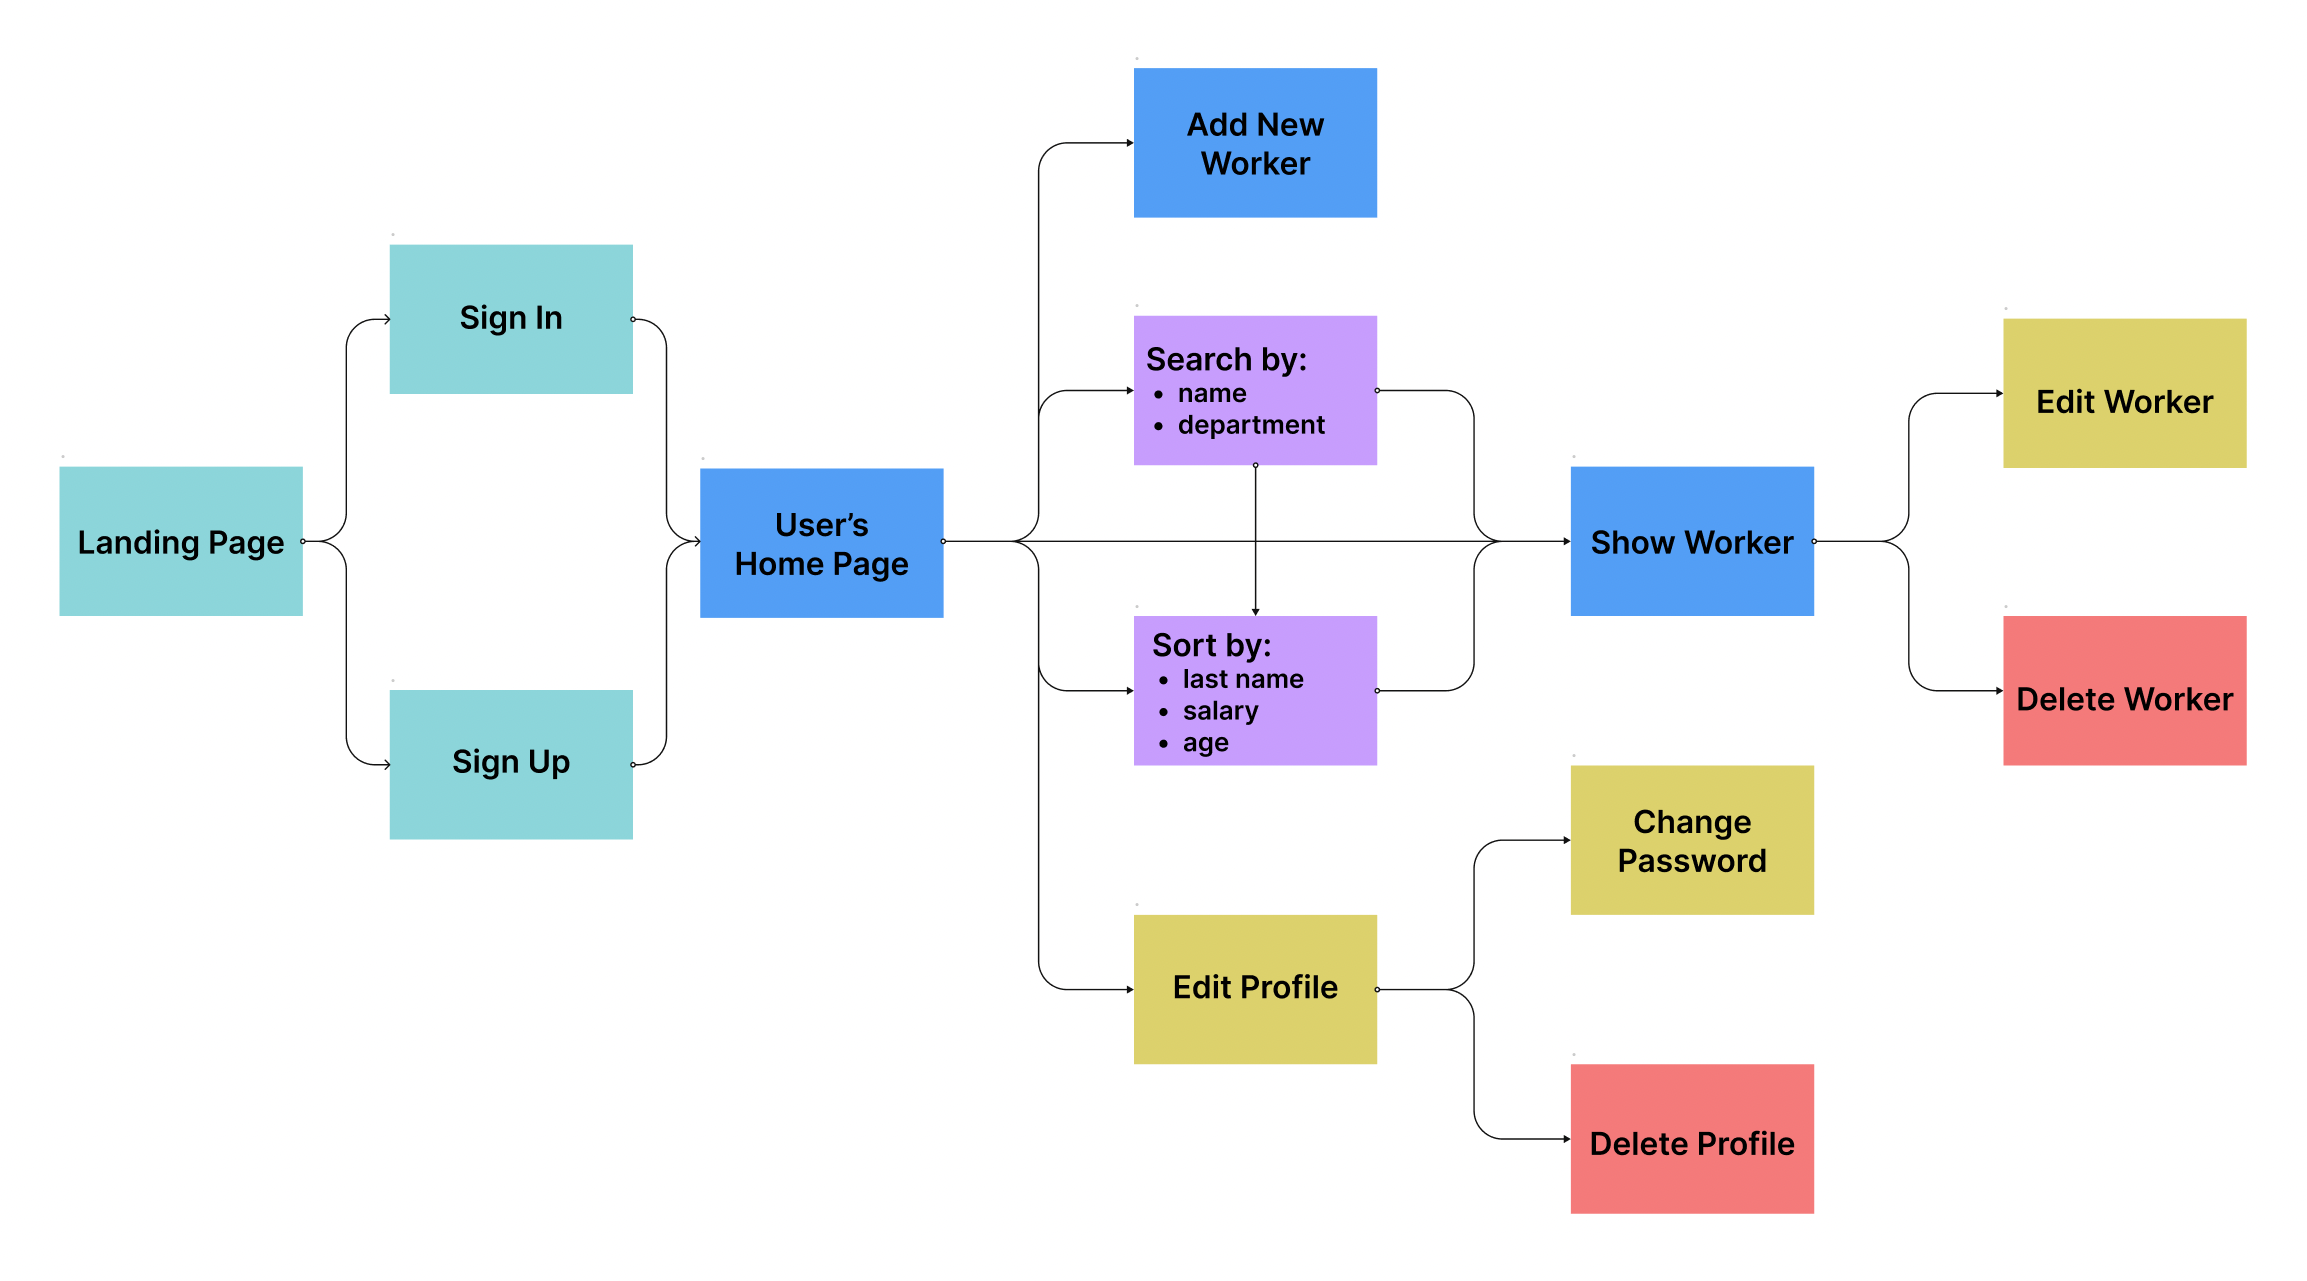
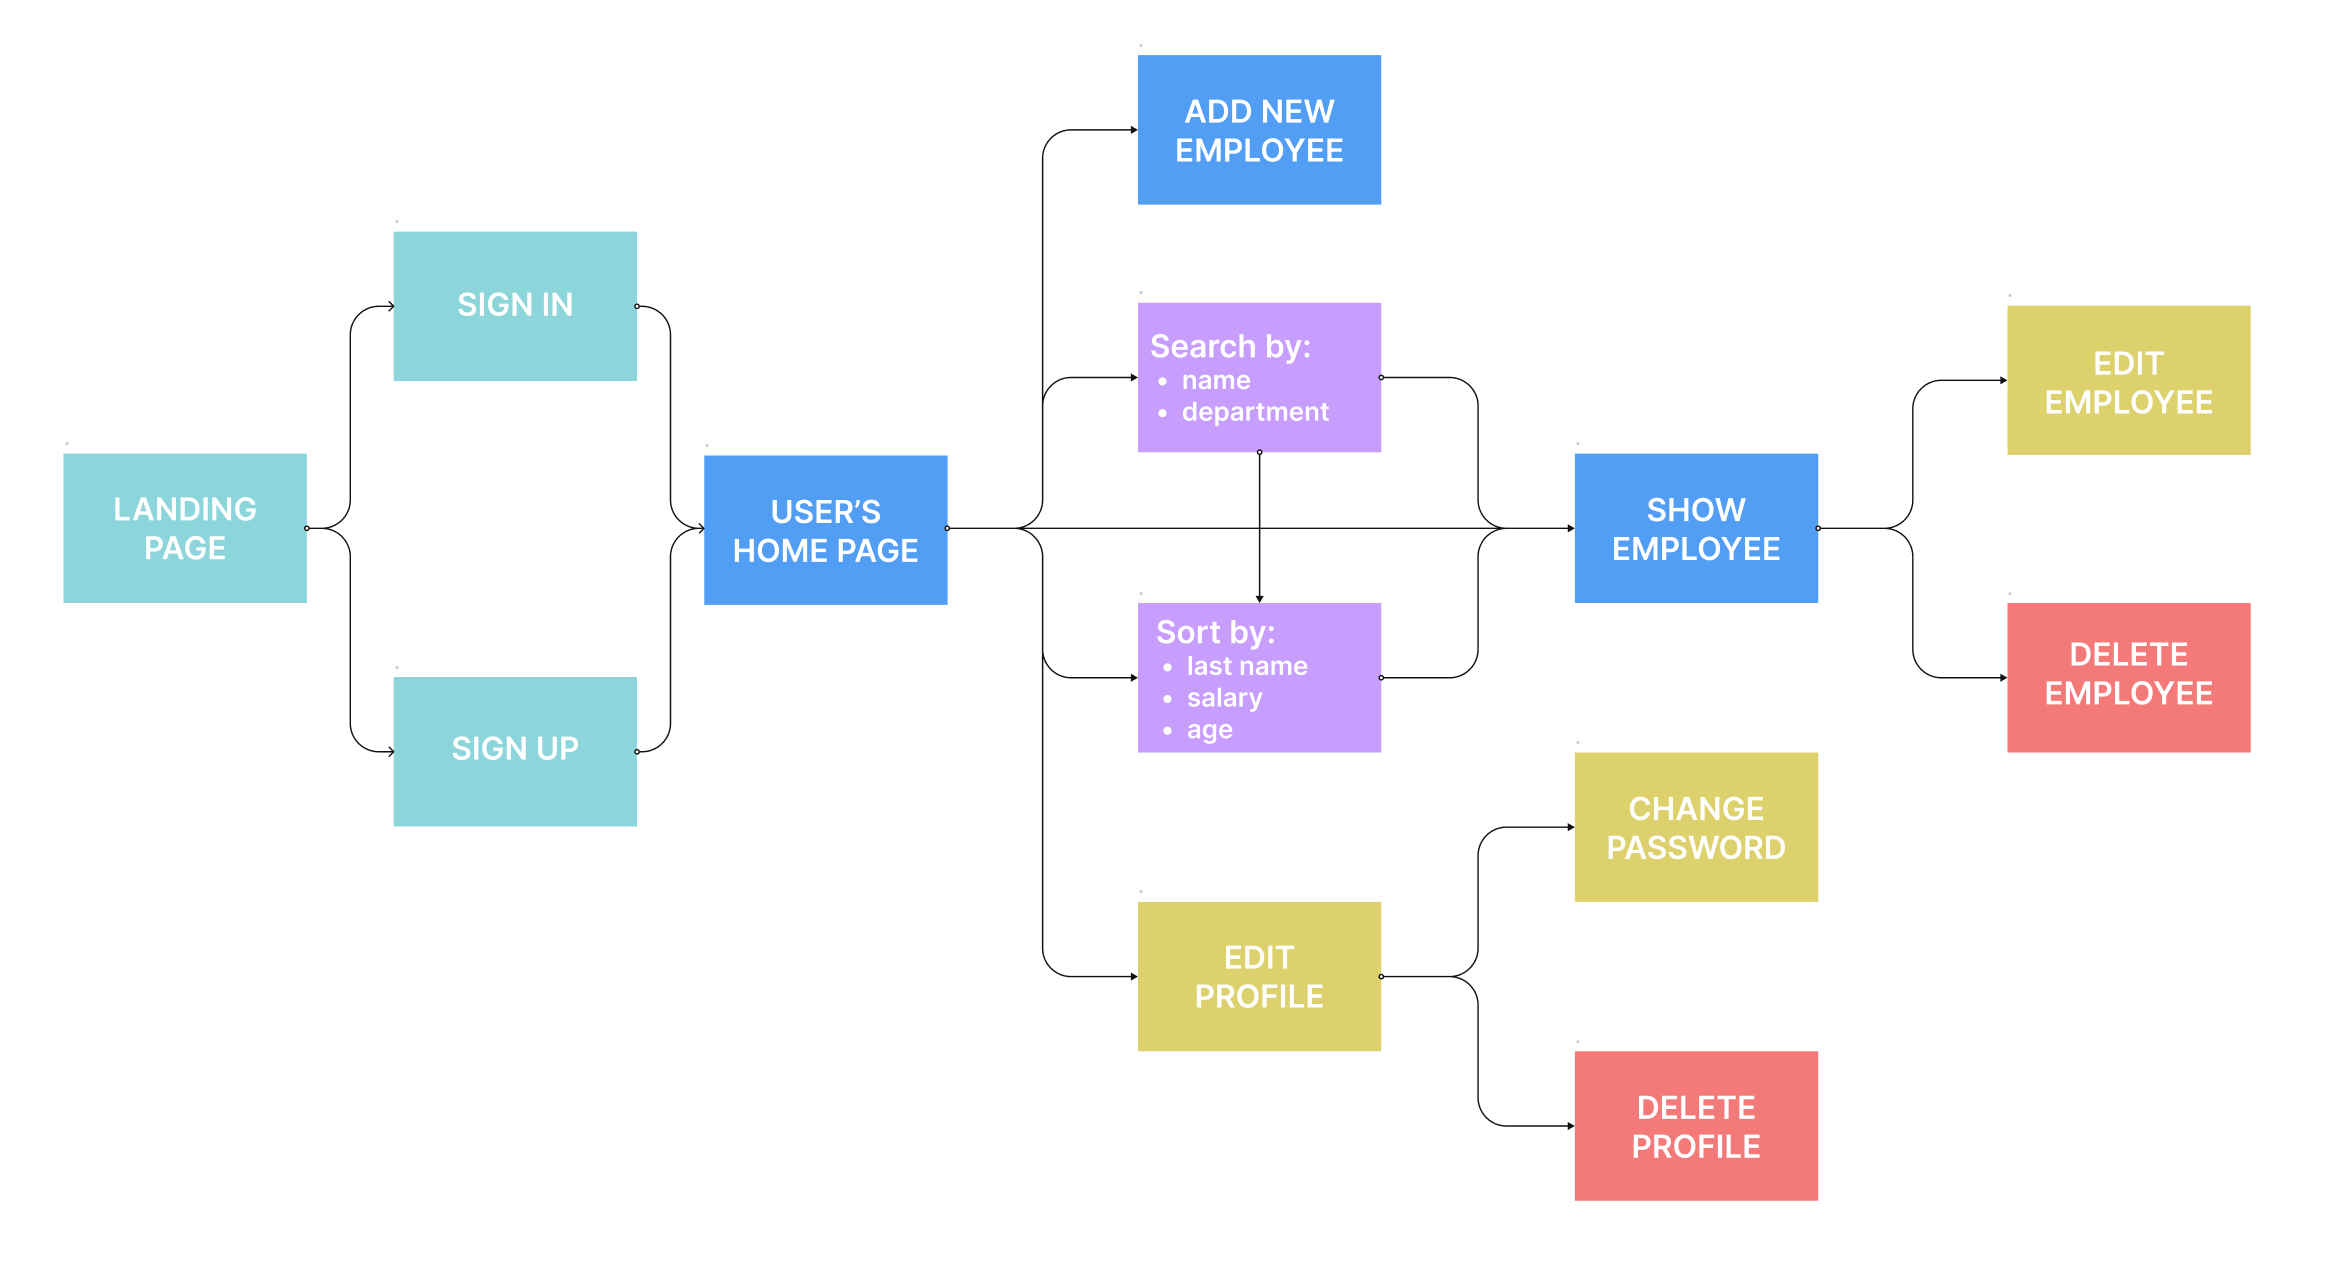
final comm

diff --git a/README.md b/README.md
@@ -16,7 +16,7 @@ SUPERVISOR is an app for keeping track of your employees. You can add, edit and 
 
 ### User Flow:
 
-![user flow](https://i.imgur.com/aYR4utv.png "Supervisor user flow")
+![user flow](https://i.imgur.com/lAjKGtd.png "Supervisor user flow")
 
 ### Tech Stack:
 
